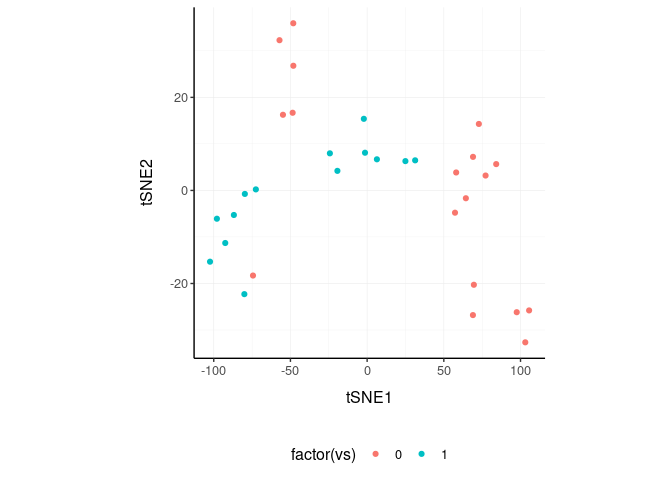
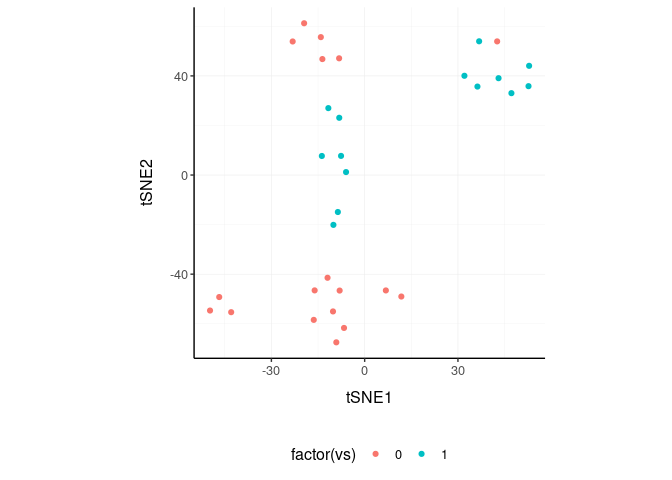
update title README

diff --git a/README.md b/README.md
@@ -1,4 +1,4 @@
-nanny - tidyverse style high-level data analysis and manipulations
+nanny: high-level data analysis and manipulations in tidyverse style
 ================
 
 <!-- badges: start -->
@@ -187,18 +187,18 @@ mtcars_tidy_tSNE %>%
 ```
 
     ## # A tibble: 32 x 5
-    ##     tSNE1   tSNE2 car_model            hp    vs
-    ##     <dbl>   <dbl> <chr>             <dbl> <dbl>
-    ##  1 -48.6   16.7   Mazda RX4           110     0
-    ##  2 -54.9   16.3   Mazda RX4 Wag       110     0
-    ##  3 -79.7   -0.754 Datsun 710           93     1
-    ##  4  25.0    6.30  Hornet 4 Drive      110     1
-    ##  5  77.2    3.20  Hornet Sportabout   175     0
-    ##  6  31.3    6.46  Valiant             105     1
-    ##  7  69.6  -20.3   Duster 360          245     0
-    ##  8  -1.38   8.10  Merc 240D            62     1
-    ##  9  -2.14  15.4   Merc 230             95     1
-    ## 10 -24.3    7.97  Merc 280            123     1
+    ##     tSNE1  tSNE2 car_model            hp    vs
+    ##     <dbl>  <dbl> <chr>             <dbl> <dbl>
+    ##  1 -13.6   46.8  Mazda RX4           110     0
+    ##  2  -8.21  47.1  Mazda RX4 Wag       110     0
+    ##  3  36.3   35.7  Datsun 710           93     1
+    ##  4  -8.62 -14.9  Hornet 4 Drive      110     1
+    ##  5  -6.64 -61.7  Hornet Sportabout   175     0
+    ##  6 -10.0  -20.1  Valiant             105     1
+    ##  7   6.82 -46.6  Duster 360          245     0
+    ##  8  -7.60   7.72 Merc 240D            62     1
+    ##  9 -13.8    7.69 Merc 230             95     1
+    ## 10 -11.7   27.0  Merc 280            123     1
     ## # … with 22 more rows
 
 ``` r
